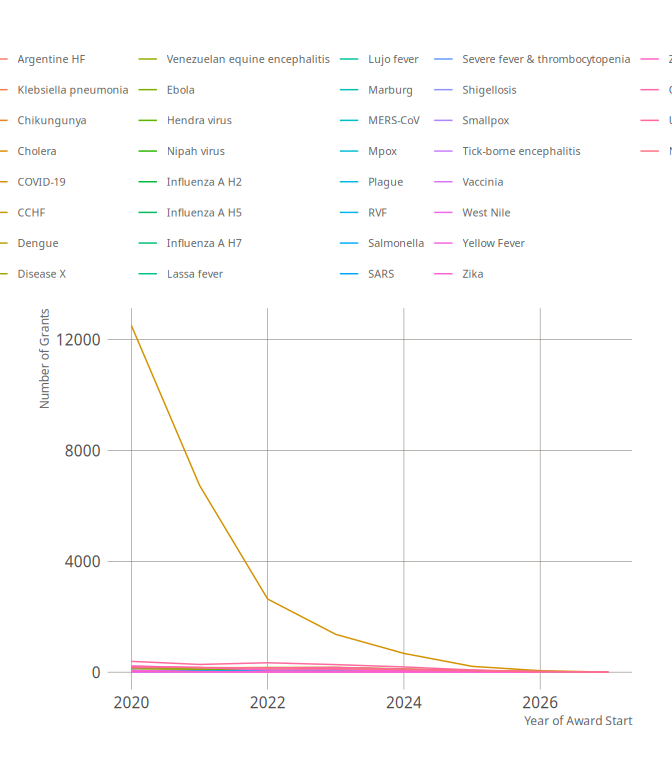
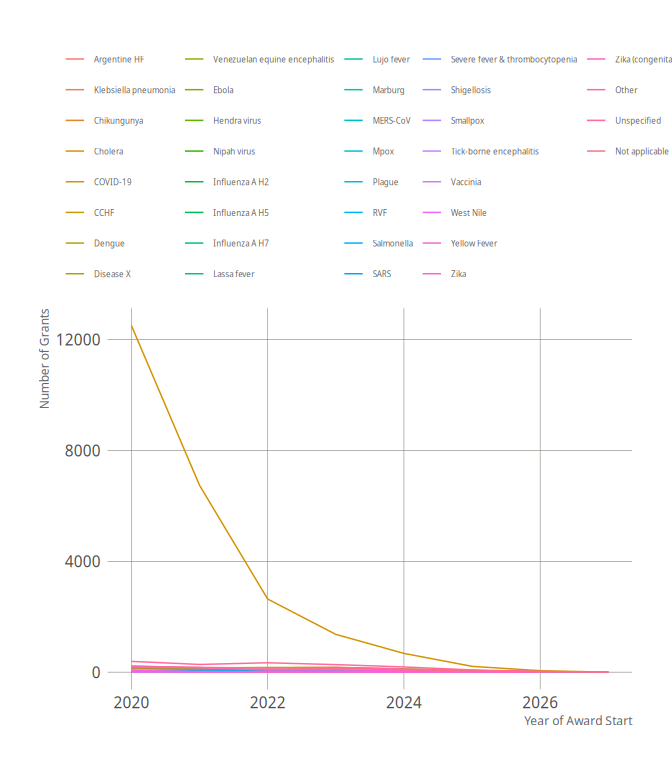
Merge pull request #203 from OxfordIHTM/dev
refactor `pact_download_figshare_private()`

Pull request: refactor `pact_download_figshare_private()`

diff --git a/README.md b/README.md
@@ -237,8 +237,7 @@ which outputs a data.frame with 4638 records and 860 fields.
 
 ``` r
 pact_read_figshare(pact_client) |>
-  pact_process_figshare() |>
-  tibble::tibble()
+  pact_process_figshare()
 ```
 
     #> # A tibble: 4,637 × 37
@@ -280,7 +279,7 @@ pact_download_website(path = tempdir())
 
 which will return the path to the downloaded dataset:
 
-    #> [1] "/tmp/RtmpTCAZAZ/pandemic-pact-grants.csv"
+    #> [1] "/tmp/RtmpFrcCEd/pandemic-pact-grants.csv"
 
 ### Read the Pandemic PACT tracker dataset from the website
 
@@ -373,7 +372,7 @@ citation("pactr")
 #> To cite pactr in publications use:
 #> 
 #>   Ernest Guevarra (2026). _pactr: An Interface to the Pandemic PACT
-#>   Repository_. R package version 0.0.9005,
+#>   Repository_. R package version 0.0.9007,
 #>   <https://oxford-ihtm.io/pactr/>.
 #> 
 #> A BibTeX entry for LaTeX users is
@@ -382,7 +381,7 @@ citation("pactr")
 #>     title = {pactr: An Interface to the Pandemic PACT Repository},
 #>     author = {{Ernest Guevarra}},
 #>     year = {2026},
-#>     note = {R package version 0.0.9005},
+#>     note = {R package version 0.0.9007},
 #>     url = {https://oxford-ihtm.io/pactr/},
 #>   }
 ```

diff --git a/NEWS.md b/NEWS.md
@@ -1,4 +1,4 @@
-# pactr v0.0.0.9006 (development version)
+# pactr v0.0.0.9007 (development version)
 
 This is a pre-release, development version. In this release:
 